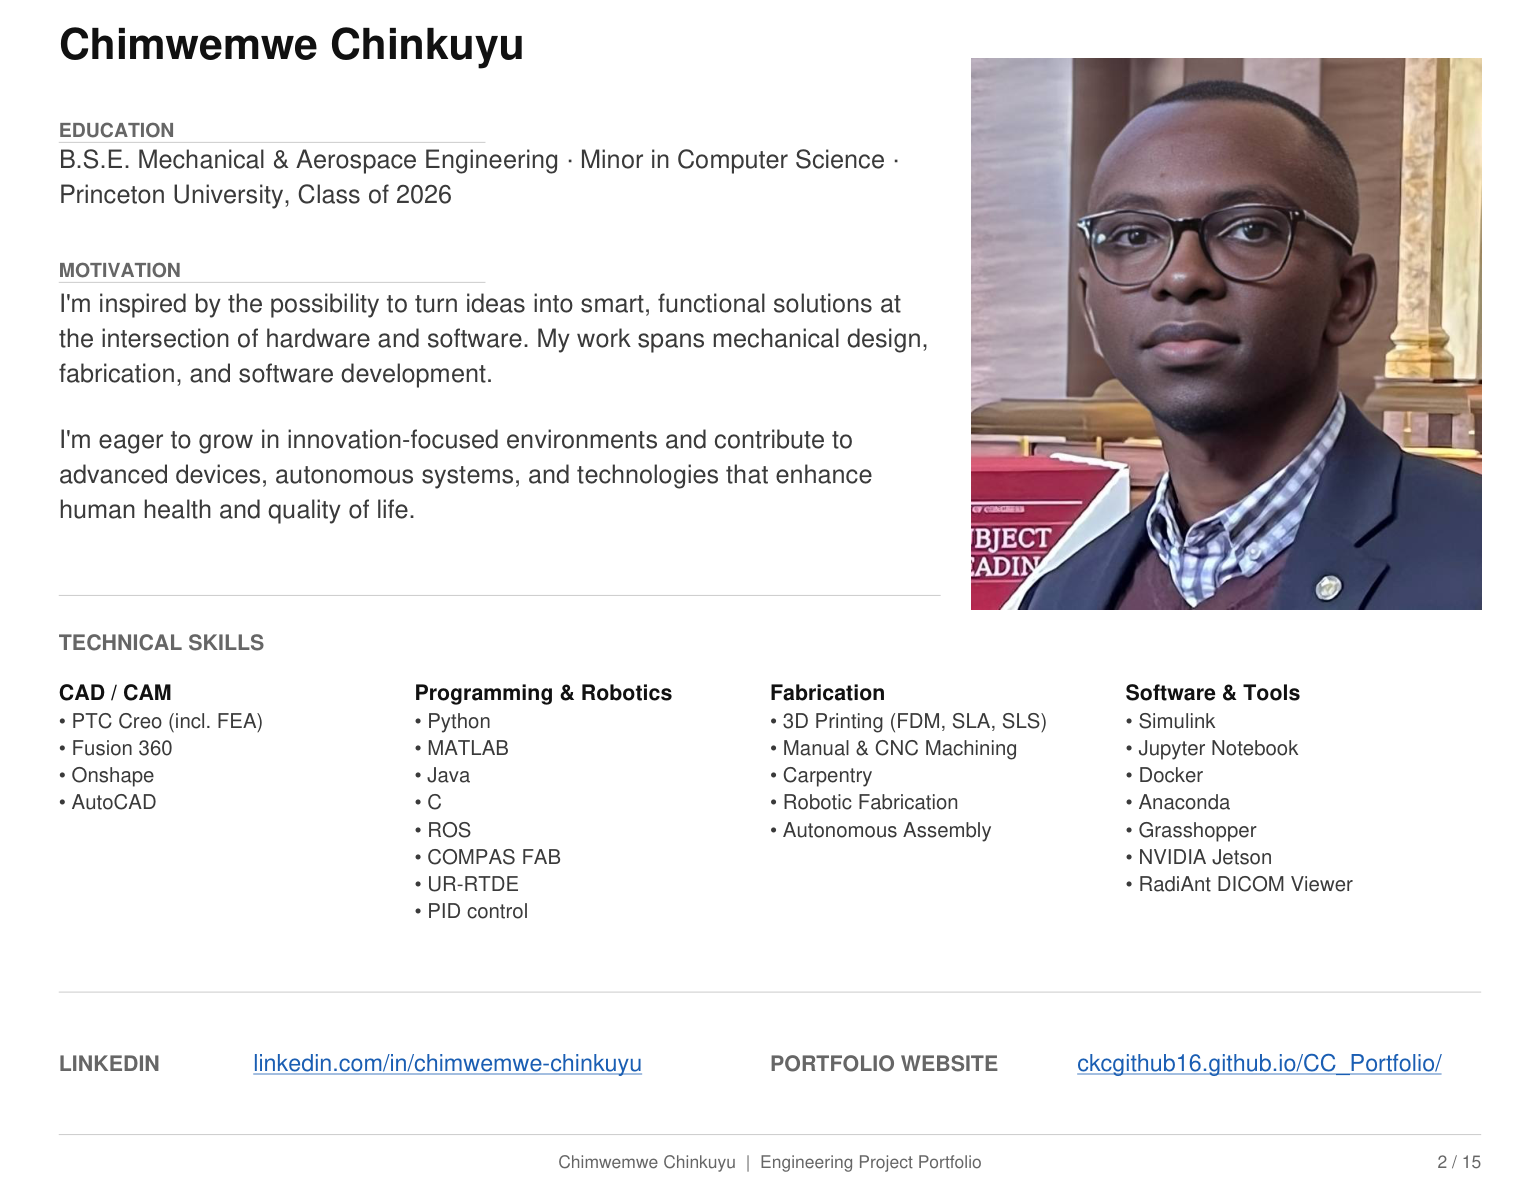
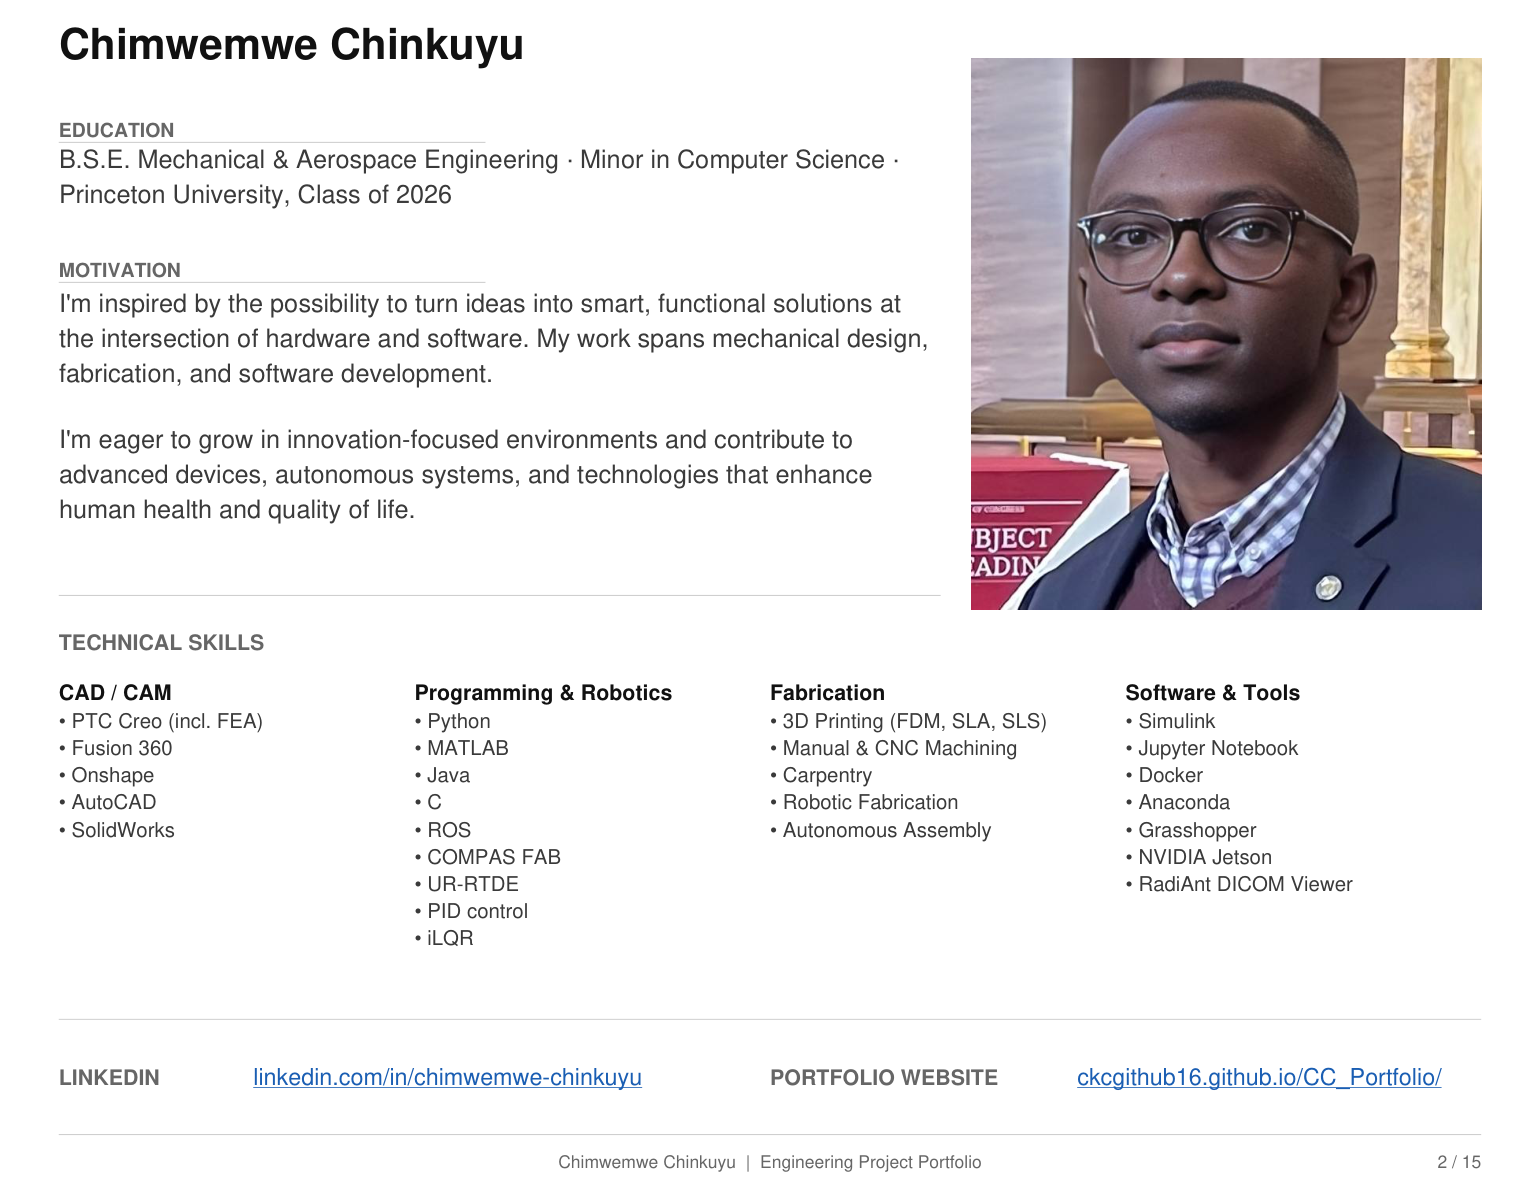
added solidworks and ilqr as skills

diff --git a/portfolio_preview.html b/portfolio_preview.html
@@ -26,25 +26,25 @@
 <body>
 <header>
   <h1>Portfolio PDF — Layout Preview</h1>
-  <span class="meta">15 pages · generated 2026-09-03 23:53:24</span>
+  <span class="meta">15 pages · generated 2026-09-04 00:28:54</span>
   <span class="hint">Re-run generate_portfolio.py, then refresh (Ctrl/Cmd + R)</span>
 </header>
 <main>
-<figure class="page"><img src="preview/page_01.png?v=1788494003" alt="Page 1" loading="lazy"><figcaption>Page 1 / 15</figcaption></figure>
-<figure class="page"><img src="preview/page_02.png?v=1788494003" alt="Page 2" loading="lazy"><figcaption>Page 2 / 15</figcaption></figure>
-<figure class="page"><img src="preview/page_03.png?v=1788494003" alt="Page 3" loading="lazy"><figcaption>Page 3 / 15</figcaption></figure>
-<figure class="page"><img src="preview/page_04.png?v=1788494003" alt="Page 4" loading="lazy"><figcaption>Page 4 / 15</figcaption></figure>
-<figure class="page"><img src="preview/page_05.png?v=1788494003" alt="Page 5" loading="lazy"><figcaption>Page 5 / 15</figcaption></figure>
-<figure class="page"><img src="preview/page_06.png?v=1788494003" alt="Page 6" loading="lazy"><figcaption>Page 6 / 15</figcaption></figure>
-<figure class="page"><img src="preview/page_07.png?v=1788494003" alt="Page 7" loading="lazy"><figcaption>Page 7 / 15</figcaption></figure>
-<figure class="page"><img src="preview/page_08.png?v=1788494003" alt="Page 8" loading="lazy"><figcaption>Page 8 / 15</figcaption></figure>
-<figure class="page"><img src="preview/page_09.png?v=1788494003" alt="Page 9" loading="lazy"><figcaption>Page 9 / 15</figcaption></figure>
-<figure class="page"><img src="preview/page_10.png?v=1788494003" alt="Page 10" loading="lazy"><figcaption>Page 10 / 15</figcaption></figure>
-<figure class="page"><img src="preview/page_11.png?v=1788494003" alt="Page 11" loading="lazy"><figcaption>Page 11 / 15</figcaption></figure>
-<figure class="page"><img src="preview/page_12.png?v=1788494003" alt="Page 12" loading="lazy"><figcaption>Page 12 / 15</figcaption></figure>
-<figure class="page"><img src="preview/page_13.png?v=1788494003" alt="Page 13" loading="lazy"><figcaption>Page 13 / 15</figcaption></figure>
-<figure class="page"><img src="preview/page_14.png?v=1788494003" alt="Page 14" loading="lazy"><figcaption>Page 14 / 15</figcaption></figure>
-<figure class="page"><img src="preview/page_15.png?v=1788494003" alt="Page 15" loading="lazy"><figcaption>Page 15 / 15</figcaption></figure>
+<figure class="page"><img src="preview/page_01.png?v=1788496133" alt="Page 1" loading="lazy"><figcaption>Page 1 / 15</figcaption></figure>
+<figure class="page"><img src="preview/page_02.png?v=1788496133" alt="Page 2" loading="lazy"><figcaption>Page 2 / 15</figcaption></figure>
+<figure class="page"><img src="preview/page_03.png?v=1788496133" alt="Page 3" loading="lazy"><figcaption>Page 3 / 15</figcaption></figure>
+<figure class="page"><img src="preview/page_04.png?v=1788496133" alt="Page 4" loading="lazy"><figcaption>Page 4 / 15</figcaption></figure>
+<figure class="page"><img src="preview/page_05.png?v=1788496133" alt="Page 5" loading="lazy"><figcaption>Page 5 / 15</figcaption></figure>
+<figure class="page"><img src="preview/page_06.png?v=1788496133" alt="Page 6" loading="lazy"><figcaption>Page 6 / 15</figcaption></figure>
+<figure class="page"><img src="preview/page_07.png?v=1788496133" alt="Page 7" loading="lazy"><figcaption>Page 7 / 15</figcaption></figure>
+<figure class="page"><img src="preview/page_08.png?v=1788496133" alt="Page 8" loading="lazy"><figcaption>Page 8 / 15</figcaption></figure>
+<figure class="page"><img src="preview/page_09.png?v=1788496133" alt="Page 9" loading="lazy"><figcaption>Page 9 / 15</figcaption></figure>
+<figure class="page"><img src="preview/page_10.png?v=1788496133" alt="Page 10" loading="lazy"><figcaption>Page 10 / 15</figcaption></figure>
+<figure class="page"><img src="preview/page_11.png?v=1788496133" alt="Page 11" loading="lazy"><figcaption>Page 11 / 15</figcaption></figure>
+<figure class="page"><img src="preview/page_12.png?v=1788496133" alt="Page 12" loading="lazy"><figcaption>Page 12 / 15</figcaption></figure>
+<figure class="page"><img src="preview/page_13.png?v=1788496133" alt="Page 13" loading="lazy"><figcaption>Page 13 / 15</figcaption></figure>
+<figure class="page"><img src="preview/page_14.png?v=1788496133" alt="Page 14" loading="lazy"><figcaption>Page 14 / 15</figcaption></figure>
+<figure class="page"><img src="preview/page_15.png?v=1788496133" alt="Page 15" loading="lazy"><figcaption>Page 15 / 15</figcaption></figure>
 </main>
 </body>
 </html>

diff --git a/resume.html b/resume.html
@@ -79,11 +79,11 @@
           <div class="skills-grid">
             <div class="skill-category">
               <h3>CAD / CAM</h3>
-              <p>PTC Creo (incl. FEA), Fusion 360, Onshape, AutoCAD</p>
+              <p>PTC Creo (incl. FEA), Fusion 360, Onshape, AutoCAD, SolidWorks</p>
             </div>
             <div class="skill-category">
               <h3>Programming &amp; Robotics</h3>
-              <p>Python, MATLAB, Java, C, ROS, COMPAS FAB, UR Robot Control (UR-RTDE), PID control</p>
+              <p>Python, MATLAB, Java, C, ROS, COMPAS FAB, UR Robot Control (UR-RTDE), PID control, iLQR</p>
             </div>
             <div class="skill-category">
               <h3>Fabrication</h3>

diff --git a/generate_portfolio.py b/generate_portfolio.py
@@ -424,11 +424,11 @@ def draw_about(c, total_pages):
     # Technical skills — spans full content width
     skills = {
         "CAD / CAM": [
-            "PTC Creo (incl. FEA)", "Fusion 360", "Onshape", "AutoCAD",
+            "PTC Creo (incl. FEA)", "Fusion 360", "Onshape", "AutoCAD", "SolidWorks",
         ],
         "Programming & Robotics": [
             "Python", "MATLAB", "Java", "C", "ROS",
-            "COMPAS FAB", "UR-RTDE", "PID control",
+            "COMPAS FAB", "UR-RTDE", "PID control", "iLQR",
         ],
         "Fabrication": [
             "3D Printing (FDM, SLA, SLS)", "Manual & CNC Machining",
